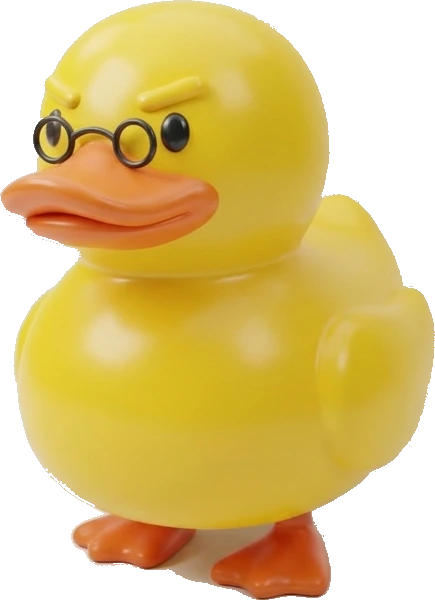
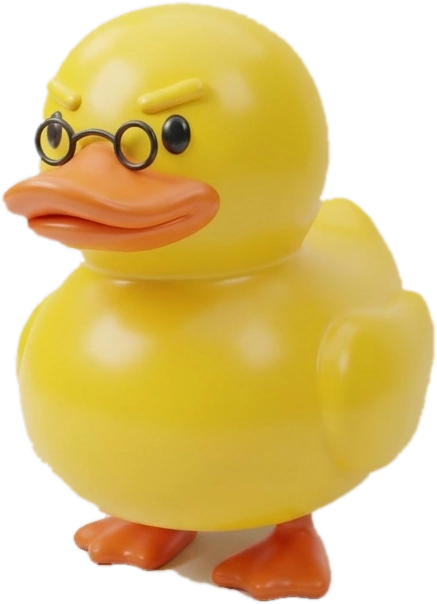
polish: sauberere Lade-Ente (kein grauer Saum, weiche Kanten) + Spotlight/Glow
- duck_mascot.webp neu freigestellt: Erosion gegen grauen Halo + Gauss-AA-Kante + Edge-Despill
- Lade-Screen: warmer Spotlight hinter der Ente + Glow-Drop-Shadow, etwas groesser

diff --git a/style.css b/style.css
@@ -64,9 +64,13 @@ body {
   transition: opacity 0.5s;
 }
 #loading.hidden { opacity: 0; pointer-events: none; }
-.load-duck { animation: bobDuck 1.4s ease-in-out infinite; }
-.load-duck img { width: 130px; height: auto; display: block; filter: drop-shadow(0 10px 20px rgba(0,0,0,0.5)); }
-@keyframes bobDuck { 0%,100% { transform: translateY(0) rotate(-4deg); } 50% { transform: translateY(-12px) rotate(4deg); } }
+.load-duck { position: relative; animation: bobDuck 1.6s ease-in-out infinite; }
+/* Weicher Spotlight hinter der Ente. */
+.load-duck::before { content: ""; position: absolute; left: 50%; top: 46%; width: 220px; height: 220px; transform: translate(-50%, -50%);
+  background: radial-gradient(circle, rgba(255,210,63,0.28), rgba(255,210,63,0.0) 68%); filter: blur(4px); z-index: 0; }
+.load-duck img { position: relative; z-index: 1; width: 150px; height: auto; display: block;
+  filter: drop-shadow(0 14px 22px rgba(0,0,0,0.55)) drop-shadow(0 0 16px rgba(255,210,63,0.35)); }
+@keyframes bobDuck { 0%,100% { transform: translateY(0) rotate(-3deg); } 50% { transform: translateY(-14px) rotate(3deg); } }
 .load-text { font-size: 14px; letter-spacing: 0.25em; color: var(--cyan); }
 .load-bar { width: 240px; height: 6px; background: rgba(255,255,255,0.08); border-radius: 4px; overflow: hidden; }
 .load-fill { height: 100%; width: 0%; background: linear-gradient(90deg, var(--yellow), var(--cyan)); transition: width 0.3s; }